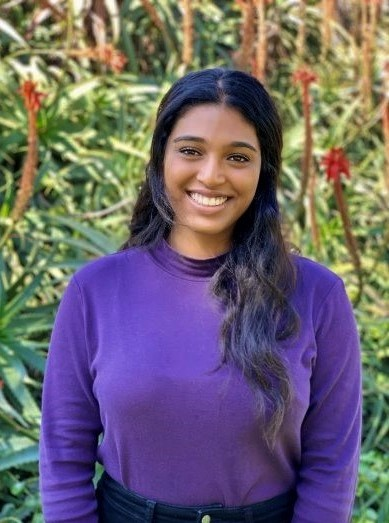
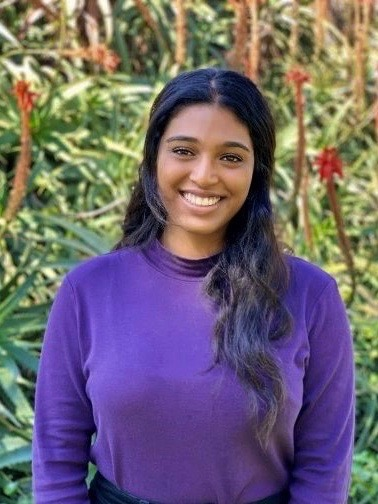
make about text bigger, crop some photos

diff --git a/src/app/views/home/Home.scss b/src/app/views/home/Home.scss
@@ -7,7 +7,7 @@
   color: white;
 
   .parallax-asset {
-    @media screen and (max-width: $break-small) {
+    @media screen and (max-width: $break-medium) {
       display: none;
     }
   }
@@ -142,18 +142,6 @@
     align-items: center;
     flex-direction: column;
 
-    @media screen and (max-width: $break-small) {
-      p {
-        font-size: 16px;
-      }
-    }
-
-    @media screen and (max-width: 320px) {
-      p {
-        font-size: 14px;
-      }
-    }
-
     img {
       width: 80%;
       max-width: 400px;
@@ -174,6 +162,19 @@
 
       @media screen and (max-width: $break-small) {
         width: 80vw;
+      }
+
+      p {
+        font-size: 24px;
+        @media screen and (max-width: $break-large) {
+          font-size: 20px;
+        }
+        @media screen and (max-width: $break-medium) {
+          font-size: 16px;
+        }
+        @media screen and (max-width: 320px) {
+            font-size: 14px;
+        }
       }
 
       a {
@@ -274,13 +275,11 @@
           grid-template-columns: 1fr 1fr;
           max-width: 850px;
         }
-    
         @media screen and (max-width: 870px) {
-          grid-template-columns: 1fr;
-          max-width: 400px;
+          grid-template-columns: 1fr 1fr;
         }
-  
-        @media screen and (max-width: $break-small) {
+        @media screen and (max-width: 650px) {
+          grid-template-columns: 1fr;
           margin: auto auto 0;
         }
 
@@ -290,7 +289,10 @@
           max-width: 330px;
           max-height: 125px;
           margin: auto;
-      
+
+          @media screen and (max-width: $break-medium) {
+            width: 220px;
+          }
           @media screen and (max-width: $break-small) {
             max-width: 200px;
           }
@@ -300,7 +302,10 @@
       .more-to-come-text {
         font-size: 30px;
         letter-spacing: 1px;
-        
+
+        @media screen and (max-width: $break-medium) {
+          font-size: 22px;
+        }
         @media screen and (max-width: $break-small) {
           font-size: 18px;
         }
@@ -311,7 +316,10 @@
           vertical-align: sub;
           color: #f2becb;
           font-weight: bold;
-    
+
+          @media screen and (max-width: $break-medium) {
+            font-size: 30px;
+          }
           @media screen and (max-width: $break-small) {
             font-size: 25px;
           }
@@ -322,7 +330,10 @@
     .sponsor-contact-us {
       font-size: 30px; 
       margin-bottom: 160px;
-      
+
+      @media screen and (max-width: $break-medium) {
+        font-size: 22px;
+      }
       @media screen and (max-width: $break-small) {
         font-size: 18px;
       }

diff --git a/src/app/views/home/Home.js b/src/app/views/home/Home.js
@@ -63,11 +63,14 @@ export default class Home extends React.Component {
     return (
       <div className="Home">
 
-        <Parallax ref={ref => (this.parallax = ref)} pages={this.state.width <= 500 ? 8 : 7}>
+        <Parallax 
+          ref={ref => (this.parallax = ref)} 
+          pages={this.state.width <= 500 ? 8 : (this.state.width > 1300 ? 6.5 : 7.2)}
+        >
 
           {/* <ParallaxLayer offset={2} speed={1} style={{ backgroundColor: '#253237' }} /> */}
           <ParallaxLayer offset={0} speed={0} factor={3} style={{ backgroundImage: url('stars', true), backgroundSize: 'cover' }} />
-          <ParallaxLayer offset={4} speed={0} factor={3} style={{ backgroundImage: url('stars', true), backgroundSize: 'cover' }} />
+          <ParallaxLayer offset={4} speed={0} factor={4} style={{ backgroundImage: url('stars', true), backgroundSize: 'cover' }} />
 
           {/* INTRO **********************/}
           <ParallaxLayer id="intro" offset={0} speed={0.1}
@@ -146,7 +149,7 @@ export default class Home extends React.Component {
           <ParallaxLayer
             id="faq"
             offset={2}
-            pages={this.state.width <= 500 ? 1.5 : 1}
+            pages={this.state.width <= 650 ? 1.5 : 1}
             speed={0.1}
             onClick={() => this.parallax.scrollTo(3)}
           >
@@ -163,7 +166,7 @@ export default class Home extends React.Component {
           {/* SPONSORS **********************/}
           <ParallaxLayer
             id="sponsors"
-            offset={this.state.width <= 500 ? 3.35 : 3}
+            offset={this.state.width <= 650 ? 3.35 : 3}
             speed={0.1}
             onClick={() => this.parallax.scrollTo(4)}
           >
@@ -195,7 +198,7 @@ export default class Home extends React.Component {
           {/* MEET THE TEAM ******************/}
           <ParallaxLayer
             id="meet-team"
-            offset={this.state.width <= 500 ? 4.5 : 4}
+            offset={this.state.width <= 650 ? 4.5 : 4}
             factor={2}
             speed={0.1}
             style={{height: 'auto'}}

diff --git a/src/app/components/meet-team/team.scss b/src/app/components/meet-team/team.scss
@@ -16,7 +16,7 @@
     // height: auto;
     // padding: 20px;
 
-    @media screen and (max-width: $break-small) {
+    @media screen and (max-width: 560px) {
       width: 120px;
       height: 134px;
       margin: 14px 20px;
@@ -26,7 +26,7 @@
   p {
     color:white;
 
-    @media screen and (max-width: $break-small) {
+    @media screen and (max-width: $break-medium) {
       font-size: 15px;
       margin-bottom: 0;
     }
